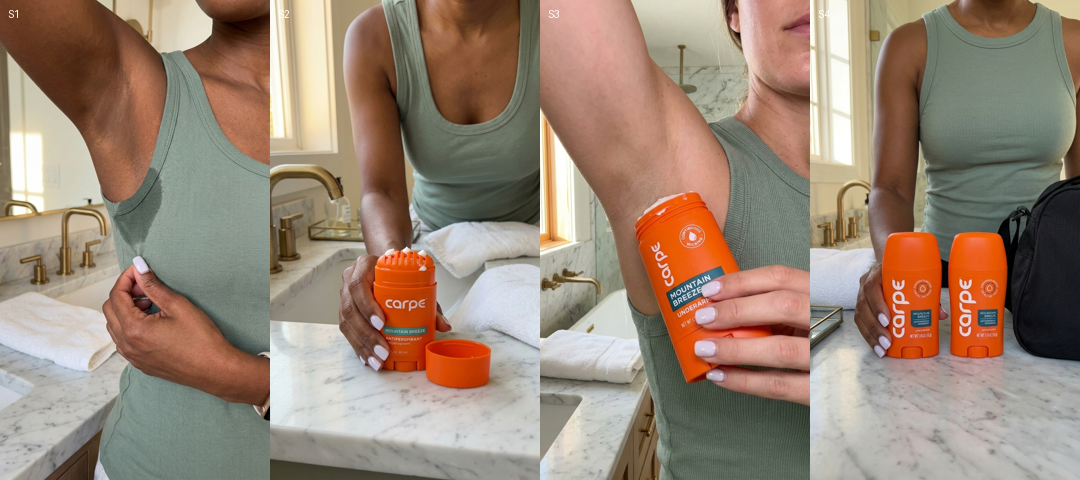
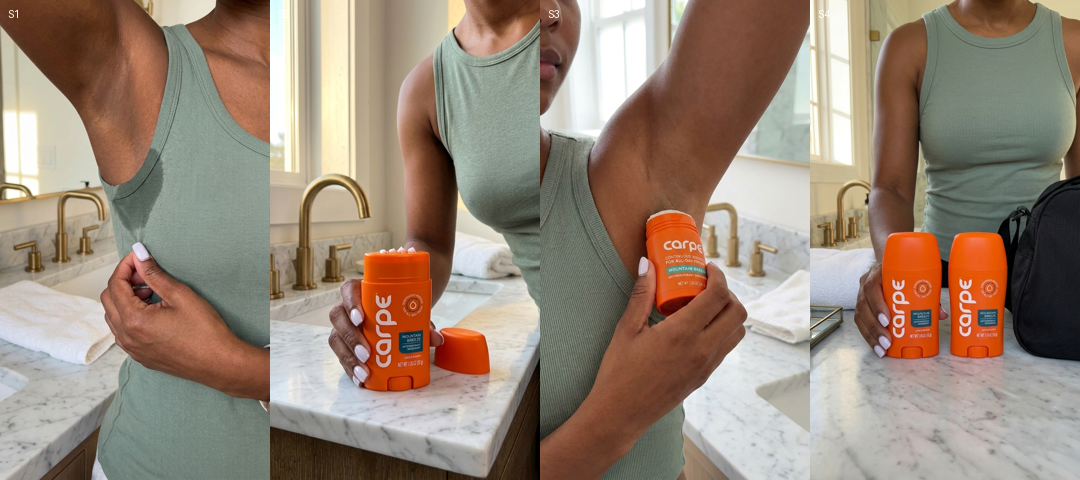
Carpe MB 15s: stills r3 (S2, S3), free crops; storyboard
Claude-Session: https://claude.ai/code/session_01Rm9kzhzvwk5kMjmFF1jTuY

diff --git a/ugc/carpe-mb-15s/kie.py b/ugc/carpe-mb-15s/kie.py
@@ -79,7 +79,7 @@ def fetch(url, out):
 
 def one_still(sid):
     s = SHOTS[sid]
-    refs = ([upload(p) for p in HAND] if s.get("hand") else []) + ([upload(p) for p in J["prod_refs"]] if s.get("prod") else [])
+    refs = ([upload(p) for p in HAND] if s.get("hand") else []) + ([upload(p) for p in J["prod_refs"]] if s.get("prod") else []) + ([upload(s["look_ref"])] if s.get("look_ref") else [])
     prompt = f"Vertical 9:16 photo, a single frame from a phone-shot UGC video. {s['still']} {blocks(sid)} {J['scene_block']}"
     url = run_task({"model": "nano-banana-pro", "input": {"prompt": prompt, "image_input": refs, "aspect_ratio": "9:16", "resolution": "1K"}})
     if url: fetch(url, f"stills/{sid}.png"); print("still", sid, "ok", flush=True)

diff --git a/ugc/carpe-mb-15s/README.md b/ugc/carpe-mb-15s/README.md
@@ -1,4 +1,4 @@
 # Carpe Mountain Breeze, 15s hands-only (Grace), 2026-10-07
 Grace's hand + underarm, no face, sage-green tank, luxurious bathroom (Ralph 2026-10-07: marble, brass fixtures, soft warm daylight). Grace B voice (bGrsdLmwBbYUgHRuMFOI, eleven_v4). New footage (rule 6).
 Script: scripts.md (gate OK). Research: research/. Shots: shots.json.
-Status: stills r1+r2 made ($0.72 spent). S1 (r2, free 1.06x crop) + S4 (r2) pass QC. S2 + S3 need a redo ($0.18, asked Ralph). No clips yet.
+Status: stills r3 ($0.90 spent). S1, S2, S4 pass QC (free crops). S3 label layout wrong (horizontal wordmark): $0.09 redo asked. Then S3 test clip. No clips yet.
